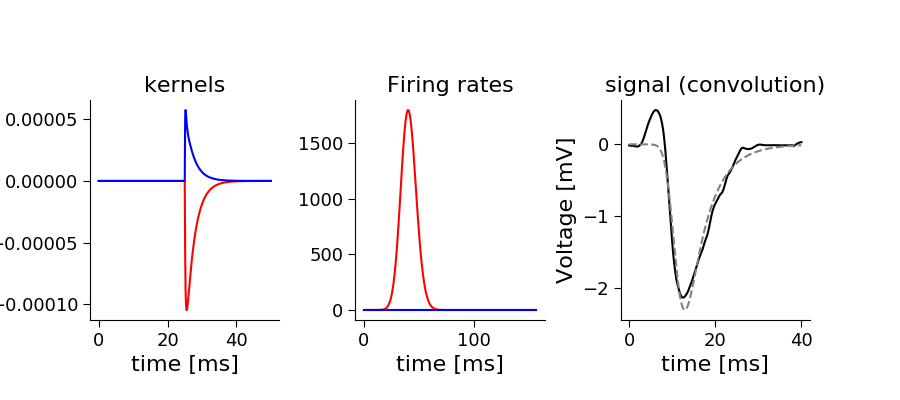
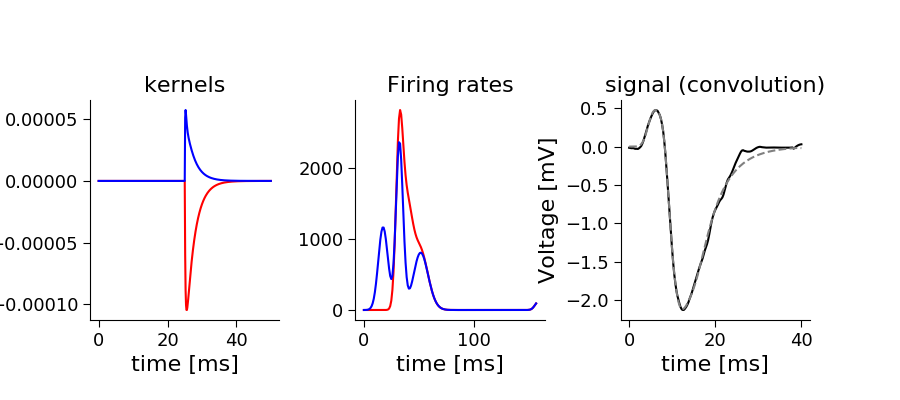
population firing as kernel

diff --git a/convolve_fit.py b/convolve_fit.py
@@ -27,9 +27,9 @@ LFP_signal = pickle.load(open('data/LFP_lines.p', 'rb'))
 # <editor-fold desc="VARIABLES">
 a=1 #for skewnorm
 err_break = 0.03 #while till err below this value
-max_iter=5
+max_iter=3
 p_degree=7
-num_norms=1
+num_norms=5
 t_min = 0.
 t_max=40.
 t_kern_min=0.
@@ -39,6 +39,7 @@ kerns = L5_kerns
 kerns = np.asarray(kerns)
 kerns = np.flip(kerns, axis=1)  # kerns was sorted inversely to signal!
 num_tsteps = len(LFP_signal[1][1])
+
 #NORMALIZE KERNELS
 # kerns0=preprocessing.Normalizer().transform(kerns[0])
 # kerns1=preprocessing.Normalizer().transform(kerns[1])
@@ -103,12 +104,15 @@ if input_args.fr == 'poly':
              'fun': confun})
     # cons=None
 elif input_args.fr == 'norm':
+    # locs_ = []
     def reroll(kerns):
         x0 = []
+        locs_ = []
         for j in range(kerns.shape[0]):
             #set loc = every N point along t-axis, then use only scale+amp to optimize
-            loc_ = np.random.randint(t_min+0.5, t_max-0.5, num_norms)
-            # loc_=np.linspace(0,40,num_norms)
+            # loc_ = np.random.randint(t_min+0.5, t_max-0.5, num_norms)
+            loc_=np.linspace(0,40,num_norms)
+            locs_.append(loc_)
             scale_ = np.random.randint(norm_scales[0], norm_scales[1], num_norms)
             # amp_ = np.random.randint(bound_big+1, bound_big**2-1, num_norms)
             amp_ = np.random.randint(1,2, num_norms)
@@ -117,16 +121,16 @@ elif input_args.fr == 'norm':
                 x0 = np.hstack((x0, loc_[i]))
                 x0 = np.hstack((x0, scale_[i]))
                 x0 = np.hstack((x0, amp_[i]))
-        return x0
-    bounds=[]
-    bounder = reroll(kerns)
-    for i in range(len(bounder)):
-        if (i + 3) % 3 == 0:
-            bounds.append(norm_loc_bounds)
-        if (i + 5) % 3 == 0:
-            bounds.append(norm_scales_bounds)
-        if (i + 4) % 3 == 0:
-            bounds.append(norm_amp_bounds)
+        return x0,locs_
+    def create_bounds(locs_):
+        bounds = []
+        for i in range(num_kernels_to_run):
+            for j in range(num_norms):
+                bounds.append(norm_loc_bounds)
+                # bounds.append([locs_[i][j]-locs_[i][j]*0.05, locs_[i][j]+locs_[i][j]*0.05])
+                bounds.append(norm_scales_bounds)
+                bounds.append(norm_amp_bounds)
+        return bounds
     cons=None
 else:
     def reroll(kerns):
@@ -175,40 +179,21 @@ def minimize_firing_rates(x, *args):
                 firing_rate_ = np.zeros(num_tsteps)
                 for jj in range(num_norms):
                     firing_rate_ +=x[idx * 3 + (jj * 3 + 2)]*st.skewnorm.pdf(np.linspace(t_min, t_max, num_tsteps),a,loc=x[idx * 3 + jj * 3],scale=x[idx * 3 + (jj * 3 + 1)])
-
-                    # firing_rate_ += x0[idx * 3 + (jj * 3 + 2)]*gauss(np.linspace(t_min, t_max, num_tsteps),x0[idx * 3 + jj * 3],x0[idx * 3 + (jj * 3 + 1)])
-                    # rv = st.norm.pdf(np.linspace(t_min, t_max, num_tsteps), loc=x0[idx * 3 + jj * 3],
-                    #                  scale=x0[idx * 3 + (jj * 3 + 1)])
-
-                    # rv = st.norm.pdf(np.linspace(t_min, t_max, num_tsteps), loc=x0[idx * 3 + jj * 3],
-                    #                  scale=x0[idx * 3 + (jj * 3 + 1)])
-                    #
-                    #
-                    # amp_ = x0[idx * 3 + (jj * 3 + 2)]
-                    # normie = amp_ * rv
-                    # firing_rate_ += normie
-
             fit_ += ss.convolve(firing_rate_, kerns[idx][i], mode="same")
-            # fit_ += ss.convolve(firing_rate_, krnl[idx], mode="same")
-
         result_thing += np.sum((data[0][i] - fit_) ** 2)
 
-    # print('Layer',i,'error:',np.sum((data[0][i] - fit_) ** 2))
     return result_thing
 
 
 
-
+nits=0
 while err > err_break:
     teller += 1
     if teller == max_iter:
         break
-    x0 = reroll(kerns)
-    # print(x0)
-    x0 = [5.,2.,0.5,15.,5.,1.5]
-    # cons = ({'type': 'eq',
-    #          'fun': confun})
-    # cons=None
+    # x0 = reroll(kerns)
+    x0,locs = reroll(kerns)
+    bounds=create_bounds(locs)
     res = minimize(minimize_firing_rates, x0, args=args, bounds=bounds, method="L-BFGS-B",
                    options={'maxfun': 1000000, 'disp': False, 'gtol': 1e-29, 'ftol': 1e-100})  # ,'iprint':0})
 
@@ -219,13 +204,16 @@ while err > err_break:
     if minimize_firing_rates(res['x'], args) < err:
         err = minimize_firing_rates(res['x'], args)
         res_best = res
+    if res['nit']>nits:
+        nits=res['nit']
+    #     nits=minimize_firing_rates(res['nit'],args)
     print('iteration:', teller, ', error:', minimize_firing_rates(res['x'], args), 'best:', err)
     print(res['message'],'nit',res['nit'])
-    # print(res['nit'])
+
 print('final error pred', minimize_firing_rates(res_best['x'], args))
 print(res['message'])
 print('iters done',res['nit'])
-# print(res_best)
+
 # for i in range(num_channels):
 for i in range(1):
 # for i in [0,15]:
@@ -262,9 +250,10 @@ for i in range(1):
                 # firing_rate_ += normie
         firing_rates_opt[idx] = firing_rate_
         fit[i] += ss.convolve(firing_rate_, kerns[idx][i], mode="same")  # ,method='direct')
-        # fit[i] += ss.convolve(firing_rate_, krnl[idx], mode="same")  # ,method='direct')
 
 pickle.dump(fit, open('data/fit_all_channels_test.p', 'wb'))
+
+# tidsakse på signal og fyringsrate bør være likt, og kernels annerledes, hva har skjedd her
 
 # <editor-fold desc="PLOT">
 fig = plt.figure(figsize=[9, 4])
@@ -297,6 +286,7 @@ ax_sig.plot(np.linspace(t_min, t_max, len(fit[0])), fit[0], c='gray', ls='--')
 plotting_convention.simplify_axes(fig.axes)
 plt.savefig("plots/100_runs.png")
 # </editor-fold>
+print('maxnits',nits)
 print("BØR JEG HA MED SHIFT I POLY? VIL VEL STARTE I 0 UANSETT")
 print("KERNELENE VÅRE SER GANSKE FORMLIKE UT, "
       "SÅ DET INNEBÆRER AT MULIG INFO FRA KUN EEG MÅLING ER BEGRENSET OM MAN TILLATER"
